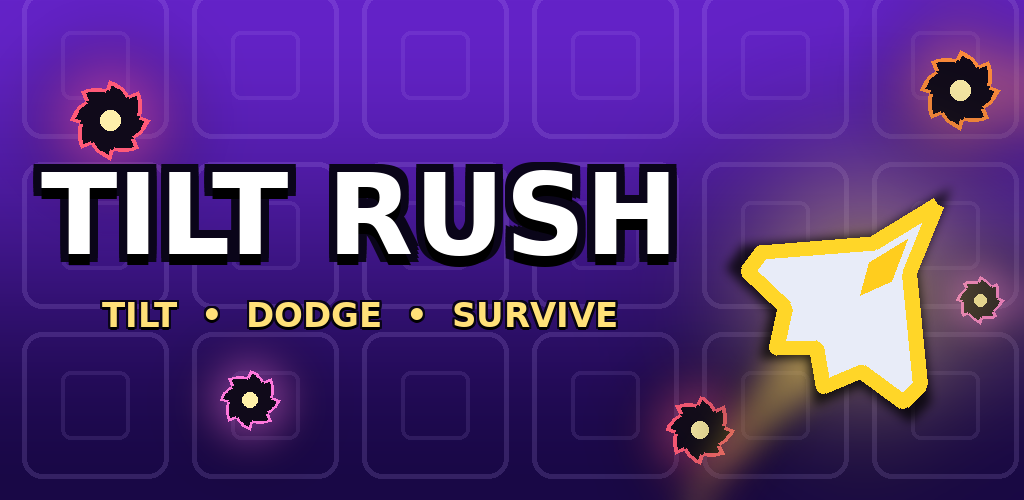
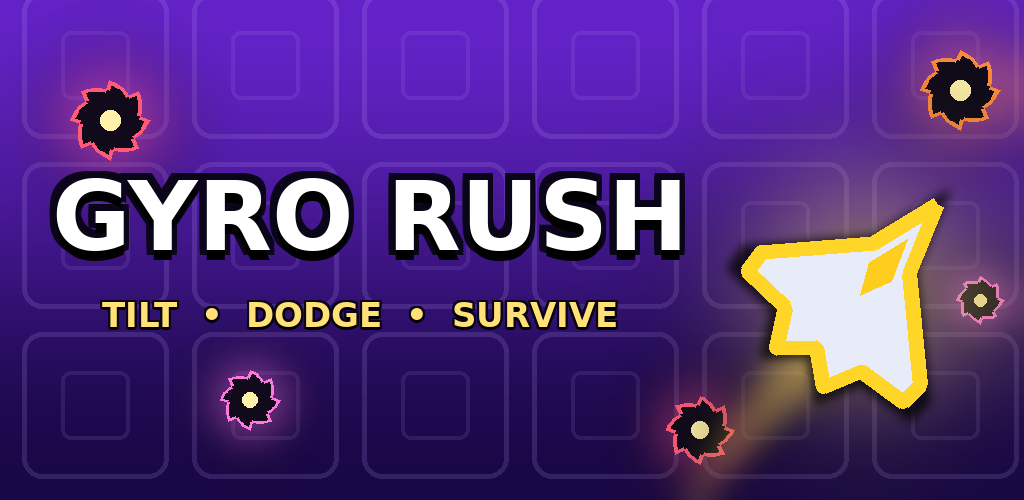
Rename game to GYRO RUSH
In-game title, dialogs, log messages, store texts, privacy policy,
release guide, feature graphic and legal Word file. Package name,
namespace, save key and privacy URL stay unchanged.

Claude-Session: https://claude.ai/code/session_01QVSonoA781wQcJSyJVQuhk

Changed region(s): [[0.0312, 0.3, 0.6875, 0.54]]

diff --git a/Assets/Scripts/Core/Ads.cs b/Assets/Scripts/Core/Ads.cs
@@ -31,12 +31,12 @@ namespace TiltRush
         void Start()
         {
 #if TILTRUSH_ADS
-            if (string.IsNullOrEmpty(GameId)) { Debug.Log("TILT RUSH ads: no Game ID in Config.AdsGameIdAndroid - ads are off."); return; }
+            if (string.IsNullOrEmpty(GameId)) { Debug.Log("GYRO RUSH ads: no Game ID in Config.AdsGameIdAndroid - ads are off."); return; }
             if (!Advertisement.isSupported) return;
             ApplyConsent();
             Advertisement.Initialize(GameId, Config.AdsTestMode, this);
 #else
-            Debug.Log("TILT RUSH ads: package 'Advertisement Legacy' not installed - ads are off.");
+            Debug.Log("GYRO RUSH ads: package 'Advertisement Legacy' not installed - ads are off.");
 #endif
         }
 
@@ -68,7 +68,7 @@ namespace TiltRush
         {
             asking = true;
             App.I.UI.ShowDialog("ADS & PRIVACY",
-                "TILT RUSH is free and shows a short ad every few minutes (never during a round).\n\n" +
+                "GYRO RUSH is free and shows a short ad every few minutes (never during a round).\n\n" +
                 "May our ad partner Unity Ads use data from your device to show ads that fit you better?\n" +
                 "You can change this any time in OPTIONS > PROFILE.",
                 new UIStack.Item("YES", Neon.Lime, () => SetConsent(true)),
@@ -118,7 +118,7 @@ namespace TiltRush
 
 #if TILTRUSH_ADS
         public void OnInitializationComplete() { ready = true; Advertisement.Load(AdUnit, this); }
-        public void OnInitializationFailed(UnityAdsInitializationError error, string message) { Debug.LogWarning("TILT RUSH ads: init failed: " + message); }
+        public void OnInitializationFailed(UnityAdsInitializationError error, string message) { Debug.LogWarning("GYRO RUSH ads: init failed: " + message); }
         public void OnUnityAdsAdLoaded(string placementId) { loaded = true; }
         public void OnUnityAdsFailedToLoad(string placementId, UnityAdsLoadError error, string message) { loaded = false; retry = 30f; }
         public void OnUnityAdsShowFailure(string placementId, UnityAdsShowError error, string message) { Done(false); }

diff --git a/Assets/Scripts/Core/Purchases.cs b/Assets/Scripts/Core/Purchases.cs
@@ -51,8 +51,8 @@ namespace TiltRush
             if (p != null && p.hasReceipt) Unlock(false);          // bought earlier (e.g. after reinstalling)
         }
 
-        public void OnInitializeFailed(InitializationFailureReason error) { Debug.LogWarning("TILT RUSH shop: " + error); }
-        public void OnInitializeFailed(InitializationFailureReason error, string message) { Debug.LogWarning("TILT RUSH shop: " + error + " " + message); }
+        public void OnInitializeFailed(InitializationFailureReason error) { Debug.LogWarning("GYRO RUSH shop: " + error); }
+        public void OnInitializeFailed(InitializationFailureReason error, string message) { Debug.LogWarning("GYRO RUSH shop: " + error + " " + message); }
 
         public PurchaseProcessingResult ProcessPurchase(PurchaseEventArgs args)
         {
@@ -101,7 +101,7 @@ namespace TiltRush
             }
             catch (Exception e)
             {
-                Debug.LogWarning("TILT RUSH shop: " + e.Message);
+                Debug.LogWarning("GYRO RUSH shop: " + e.Message);
             }
         }
 
@@ -129,7 +129,7 @@ namespace TiltRush
             SaveManager.Data.adsRemoved = true;
             SaveManager.Save();
             if (thank)
-                App.I.UI.ShowDialog("THANK YOU!", "Ads are gone for good.\nThanks for supporting TILT RUSH!",
+                App.I.UI.ShowDialog("THANK YOU!", "Ads are gone for good.\nThanks for supporting GYRO RUSH!",
                     new UIStack.Item("OK", Neon.Lime, () => App.I.UI.Show<MainMenuScreen>()));
         }
     }

diff --git a/Assets/Scripts/Online/UgsOnlineService.cs b/Assets/Scripts/Online/UgsOnlineService.cs
@@ -74,7 +74,7 @@ namespace TiltRush
             catch (Exception e)
             {
                 status = "OFFLINE - " + e.Message;
-                Debug.LogWarning("TiltRush online: " + e);
+                Debug.LogWarning("GyroRush online: " + e);
             }
         }
 
@@ -147,7 +147,7 @@ namespace TiltRush
             string clean = string.IsNullOrEmpty(name) ? "Player" : name.Trim().Replace(' ', '_');
             if (clean == syncedName) return;
             try { await AuthenticationService.Instance.UpdatePlayerNameAsync(clean); syncedName = clean; }
-            catch (Exception e) { Debug.LogWarning("TiltRush: could not set player name: " + e.Message); }
+            catch (Exception e) { Debug.LogWarning("GyroRush: could not set player name: " + e.Message); }
         }
 
         // ================================================================== online PvP
@@ -201,7 +201,7 @@ namespace TiltRush
                             { "seed", new DataObject(DataObject.VisibilityOptions.Member, UnityEngine.Random.Range(1, 100000).ToString(CultureInfo.InvariantCulture)) }
                         }
                     };
-                    lobby = await LobbyService.Instance.CreateLobbyAsync("TiltRush", 2, c);
+                    lobby = await LobbyService.Instance.CreateLobbyAsync("GyroRush", 2, c);
                     isHost = true; lobbyId = lobby.Id;
                     App.I.StartCoroutine(Heartbeat(lobby.Id));
                     while (lobby.Players.Count < 2)

diff --git a/Assets/Scripts/Editor/ProjectSetup.cs b/Assets/Scripts/Editor/ProjectSetup.cs
@@ -19,7 +19,7 @@ namespace TiltRush.EditorTools
             if (PlayerSettings.allowedAutorotateToPortraitUpsideDown) { PlayerSettings.allowedAutorotateToPortraitUpsideDown = false; changed = true; }
             if (!PlayerSettings.allowedAutorotateToLandscapeLeft) { PlayerSettings.allowedAutorotateToLandscapeLeft = true; changed = true; }
             if (!PlayerSettings.allowedAutorotateToLandscapeRight) { PlayerSettings.allowedAutorotateToLandscapeRight = true; changed = true; }
-            if (changed) Debug.Log("TILT RUSH: player settings set to landscape only.");
+            if (changed) Debug.Log("GYRO RUSH: player settings set to landscape only.");
         }
     }
 }

diff --git a/Assets/Scripts/Core/App.cs b/Assets/Scripts/Core/App.cs
@@ -4,7 +4,7 @@ using UnityEngine;
 // which makes every Input call throw an error. Fix: Edit > Project Settings > Player > Other Settings >
 // Active Input Handling = "Both" (Unity restarts once).
 #if ENABLE_INPUT_SYSTEM && !ENABLE_LEGACY_INPUT_MANAGER
-#error TILT RUSH: set Edit > Project Settings > Player > Other Settings > Active Input Handling to "Both" (see README).
+#error GYRO RUSH: set Edit > Project Settings > Player > Other Settings > Active Input Handling to "Both" (see README).
 #endif
 
 namespace TiltRush

diff --git a/Assets/Scripts/Core/Config.cs b/Assets/Scripts/Core/Config.cs
@@ -25,7 +25,7 @@ namespace TiltRush
     /// </summary>
     public static class Config
     {
-        public const string GameTitle = "TILT RUSH";
+        public const string GameTitle = "GYRO RUSH";
 
         // Camera / arena. The arena always fills the whole screen (inside the safe area).
         // A BIGGER CameraSize = more world visible = everything looks smaller.

diff --git a/Store/RELEASE_ANLEITUNG.md b/Store/RELEASE_ANLEITUNG.md
@@ -1,4 +1,4 @@
-# TILT RUSH – Release im Google Play Store
+# GYRO RUSH – Release im Google Play Store
 
 Schritt-für-Schritt-Anleitung von Anfang an. Hake ab, was erledigt ist: `[ ]` → `[x]`.
 Die Reihenfolge ist wichtig – einige Schritte gehen erst, wenn ein früherer erledigt ist.
@@ -45,7 +45,7 @@ geschlossener Test (**14 Tage**), App-Prüfung durch Google (einige Tage).
 
 ## Phase 3 – Webseite mit Datenschutz und Impressum
 
-- [ ] **3.1** **sites.google.com** → neue Website „Tilt Rush“.
+- [ ] **3.1** **sites.google.com** → neue Website „Gyro Rush“.
 - [ ] **3.2** Seite **„Datenschutz“** anlegen: Text aus `Store/datenschutz_de.md` einfügen, alle `[PLATZHALTER]` ausfüllen.
       Optional zweite Seite „Privacy Policy“ mit `Store/privacy_policy_en.md`.
 - [ ] **3.3** Seite **„Impressum“** mit `Store/impressum_de.md` (Name, Anschrift, E-Mail).
@@ -66,7 +66,7 @@ geschlossener Test (**14 Tage**), App-Prüfung durch Google (einige Tage).
 
 *Edit > Project Settings > Player*, Reiter **Android** (Roboter-Symbol):
 
-- [ ] **5.1** **Company Name**: dein Name oder Studioname · **Product Name**: `Tilt Rush` · **Version**: `1.0.0`
+- [ ] **5.1** **Company Name**: dein Name oder Studioname · **Product Name**: `Gyro Rush` · **Version**: `1.0.0`
 - [ ] **5.2** **Icon**: `Store/icon_1024.png` in den Unity-`Assets`-Ordner ziehen → bei *Icon > Default Icon* einsetzen.
 - [ ] **5.3** *Other Settings*:
   - **Package Name** = `com.deinname.tiltrush` (nur Kleinbuchstaben) – ⚠ **nie mehr änderbar** nach dem ersten Upload
@@ -83,7 +83,7 @@ geschlossener Test (**14 Tage**), App-Prüfung durch Google (einige Tage).
 
 ## Phase 6 – App in der Play Console anlegen
 
-- [ ] **6.1** **App erstellen**: Name „Tilt Rush“, Sprache Deutsch, **Spiel**, **Kostenlos**, Erklärungen bestätigen.
+- [ ] **6.1** **App erstellen**: Name „Gyro Rush“, Sprache Deutsch, **Spiel**, **Kostenlos**, Erklärungen bestätigen.
 - [ ] **6.2** Unter **Dashboard > App einrichten** alle Punkte erledigen:
   - **Datenschutzerklärung**: URL aus 3.5
   - **App-Zugriff**: „Alle Funktionen ohne besonderen Zugriff verfügbar“
@@ -121,9 +121,9 @@ geschlossener Test (**14 Tage**), App-Prüfung durch Google (einige Tage).
 ## Phase 9 – Veröffentlichen
 
 - [ ] **9.1** Nach 14 Tagen erscheint im Dashboard **„Zugriff auf Produktion beantragen“** → kurze Fragen zum Test beantworten (wie viele Tester, was verbessert wurde). Google antwortet meist innerhalb weniger Tage.
-- [ ] **9.2** *Produktion > Neuen Release erstellen* → letztes `.aab` übernehmen/hochladen → Versionshinweise (z. B. „Erste Version von TILT RUSH!“).
+- [ ] **9.2** *Produktion > Neuen Release erstellen* → letztes `.aab` übernehmen/hochladen → Versionshinweise (z. B. „Erste Version von GYRO RUSH!“).
 - [ ] **9.3** **Länder/Regionen** auswählen → **Zur Überprüfung senden**.
-- [ ] **9.4** Prüfung durch Google (meist einige Tage) → danach ist **Tilt Rush im Play Store**. 🎉
+- [ ] **9.4** Prüfung durch Google (meist einige Tage) → danach ist **Gyro Rush im Play Store**. 🎉
 
 ## Phase 10 – Nach dem Release
 

diff --git a/Store/store_listing.md b/Store/store_listing.md
@@ -9,7 +9,7 @@ German = "Deutsch – de-DE", English = "English (United States) – en-US" (add
 
 **App-Name** (max. 30 Zeichen)
 ```
-Tilt Rush
+Gyro Rush
 ```
 
 **Kurzbeschreibung** (max. 80 Zeichen)
@@ -21,7 +21,7 @@ Kippen, ausweichen, überleben! 25 Level, 7 Modi und 15 verrückte Gadgets.
 ```
 Kipp dein Handy – und flieg um dein Leben!
 
-In TILT RUSH steuerst du dein Raumschiff nur durch Neigen. Hunderte stachelige Gegner jagen dich durch bunte Neon-Welten. Weiche aus, sammle Gadgets ein und puste ganze Schwärme mit einem Schlag weg.
+In GYRO RUSH steuerst du dein Raumschiff nur durch Neigen. Hunderte stachelige Gegner jagen dich durch bunte Neon-Welten. Weiche aus, sammle Gadgets ein und puste ganze Schwärme mit einem Schlag weg.
 
 ★ 25 KAMPAGNEN-LEVEL IN 12 WELTEN
 Lava-See, Eishöhle, Giftsumpf, Weltall, Candy Land, Gewitter, Cyber Grid … jede Welt mit eigenen Farben, Hindernissen und Effekten. Je länger du überlebst, desto knalliger wird es.
@@ -56,7 +56,7 @@ Kostenlos spielbar. Enthält Werbung (nie während einer Runde) und einen option
 
 **App name** (max. 30 characters)
 ```
-Tilt Rush
+Gyro Rush
 ```
 
 **Short description** (max. 80 characters)
@@ -68,7 +68,7 @@ Tilt, dodge, survive! 25 levels, 7 modes and 15 crazy gadgets.
 ```
 Tilt your phone – and fly for your life!
 
-In TILT RUSH you steer your ship just by tilting. Hundreds of spiky enemies chase you through colourful neon worlds. Dodge, grab gadgets and blast whole swarms away in one go.
+In GYRO RUSH you steer your ship just by tilting. Hundreds of spiky enemies chase you through colourful neon worlds. Dodge, grab gadgets and blast whole swarms away in one go.
 
 ★ 25 CAMPAIGN LEVELS IN 12 WORLDS
 Lava lake, ice cave, toxic swamp, outer space, candy land, thunder storm, cyber grid … every world with its own colours, obstacles and effects. The longer you survive, the more intense it gets.

diff --git a/Store/datenschutz_de.md b/Store/datenschutz_de.md
@@ -1,4 +1,4 @@
-# Datenschutzerklärung für die App „Tilt Rush“
+# Datenschutzerklärung für die App „Gyro Rush“
 
 > **ENTWURF** – Platzhalter in [ECKIGEN KLAMMERN] ausfüllen. Dies ist keine Rechtsberatung;
 > lass den Text vor der Veröffentlichung idealerweise prüfen (z. B. mit einem Datenschutz-Generator oder einem Anwalt).
@@ -12,7 +12,7 @@ Stand: [DATUM]
 E-Mail: [E-MAIL-ADRESSE]
 
 ## 2. Allgemeines
-Diese Erklärung informiert dich darüber, welche personenbezogenen Daten beim Spielen von „Tilt Rush“ (im Folgenden „App“) verarbeitet werden. Die App ist ohne Benutzerkonto spielbar. Spielstände, Einstellungen und Statistiken werden **nur lokal auf deinem Gerät** gespeichert.
+Diese Erklärung informiert dich darüber, welche personenbezogenen Daten beim Spielen von „Gyro Rush“ (im Folgenden „App“) verarbeitet werden. Die App ist ohne Benutzerkonto spielbar. Spielstände, Einstellungen und Statistiken werden **nur lokal auf deinem Gerät** gespeichert.
 
 ## 3. Online-Funktionen (Unity Gaming Services)
 Für Bestenlisten und Online-Spiele nutzt die App Dienste der **Unity Technologies SF**, 30 3rd Street, San Francisco, CA 94103, USA („Unity“): Authentication, Leaderboards und Lobby.

diff --git a/README.md b/README.md
@@ -1,4 +1,4 @@
-# TILT RUSH – Unity (Android)
+# GYRO RUSH – Unity (Android)
 
 ## Schnellstart (Deutsch)
 1. **Unity Hub > New project** > Vorlage **"2D (Built-In Render Pipeline)"** wählen (NICHT "Universal 2D" / URP).
@@ -6,7 +6,7 @@
    (vorher einen alten `Scripts`-Ordner von TiltRush löschen, damit keine doppelten Dateien entstehen).
 3. **Edit > Project Settings > Player > Other Settings > Active Input Handling = "Both"**.
    Unity startet danach einmal neu. Ohne diese Einstellung erscheint in der Console der Fehler
-   `TILT RUSH: set ... Active Input Handling to "Both"` – das ist Absicht und genau der Hinweis auf diesen Schritt.
+   `GYRO RUSH: set ... Active Input Handling to "Both"` – das ist Absicht und genau der Hinweis auf diesen Schritt.
 4. **Play** drücken. Im Game-Fenster oben das Seitenverhältnis auf **16:9** stellen und einmal ins Bild klicken (Tastatur: WASD / Pfeile).
 5. Handy-Build: **File > Build Settings** (in Unity 6: **File > Build Profiles**) **> Android > Switch Platform**, dann **Build And Run** (Handy per USB, Entwickleroptionen + USB-Debugging an).
 

diff --git a/Store/privacy_policy_en.md b/Store/privacy_policy_en.md
@@ -1,4 +1,4 @@
-# Privacy Policy for the app "Tilt Rush"
+# Privacy Policy for the app "Gyro Rush"
 
 > **DRAFT** – fill in the [PLACEHOLDERS]. This is not legal advice.
 
@@ -8,7 +8,7 @@ Last updated: [DATE]
 [FIRST NAME LAST NAME], [STREET], [POSTCODE CITY], [COUNTRY] – Email: [EMAIL]
 
 ## 2. General
-"Tilt Rush" can be played without an account. Progress, settings and statistics are stored **only on your device**.
+"Gyro Rush" can be played without an account. Progress, settings and statistics are stored **only on your device**.
 
 ## 3. Online features (Unity Gaming Services)
 Leaderboards and online play use services of **Unity Technologies SF**, 30 3rd Street, San Francisco, CA 94103, USA ("Unity"): Authentication, Leaderboards, Lobby.
